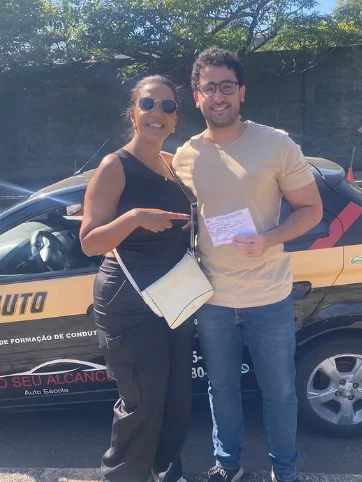
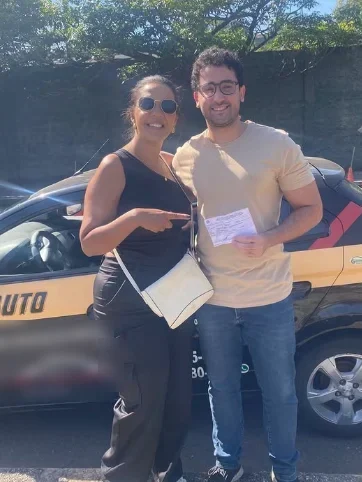
Valéria (nova): depoimentos, DETRAN, horários e pagamento
Adiciona 5 depoimentos reais, +3 mil alunos aprovados, credencial
do DETRAN, HB20 próprio, aula de 50 min, 7h às 20h e formas de
pagamento. Borra nomes e telefones de autoescolas nas fotos.

Claude-Session: https://claude.ai/code/session_01DHs11vQTJvKq3AUs1mspLR

Changed region(s): [[0.0, 0.6535, 0.3343, 0.8402]]

diff --git a/public/valeria/nova/index.html b/public/valeria/nova/index.html
@@ -119,6 +119,20 @@ footer a{font-weight:800;text-decoration:none}
 .sticky{position:fixed;z-index:10;left:0;right:0;bottom:0;padding:10px 16px calc(12px + env(safe-area-inset-bottom,0px));background:rgba(255,248,243,.94);backdrop-filter:blur(8px);border-top:1px solid var(--line)}
 .sticky .btn{width:100%}
 
+
+/* depoimentos */
+.quotes{display:grid;grid-auto-flow:column;grid-auto-columns:min(80vw,320px);gap:14px;overflow-x:auto;scroll-snap-type:x mandatory;padding-bottom:10px}
+.quote{margin:0;display:flex;flex-direction:column;background:var(--surface);border-radius:var(--r);box-shadow:var(--shadow);overflow:hidden;scroll-snap-align:start}
+.quote img{width:100%;aspect-ratio:4/3;object-fit:cover;object-position:50% 30%}
+.quote blockquote{margin:0;padding:18px 20px 8px;font-size:16px;font-weight:600;line-height:1.5}
+.quote figcaption{padding:0 20px 18px;font-size:14px;font-weight:700;color:var(--pink)}
+@media (min-width:900px){
+  .quotes{grid-auto-flow:initial;grid-template-columns:repeat(3,minmax(0,1fr));overflow:visible}
+  .quote.big{grid-row:span 2}
+  .quote.big img{aspect-ratio:4/3.4}
+  .quote.big blockquote{font-size:19px;padding:24px 26px 10px}
+  .quote.big figcaption{padding:0 26px 24px}
+}
 @media (min-width:760px){
   .students{grid-auto-flow:initial;grid-template-columns:repeat(5,minmax(0,1fr));overflow:visible}
   .steps{grid-template-columns:repeat(3,minmax(0,1fr))}
@@ -164,7 +178,8 @@ footer a{font-weight:800;text-decoration:none}
       </div>
       <ul class="trust">
         <li><svg viewBox="0 0 24 24" fill="none" stroke="currentColor" stroke-width="2.4" stroke-linecap="round" stroke-linejoin="round" aria-hidden="true"><path d="M5 12.5l4.5 4.5L19 7"/></svg>30 anos de experiência</li>
-        <li><svg viewBox="0 0 24 24" fill="none" stroke="currentColor" stroke-width="2.4" stroke-linecap="round" stroke-linejoin="round" aria-hidden="true"><path d="M5 12.5l4.5 4.5L19 7"/></svg>Aula individual</li>
+        <li><svg viewBox="0 0 24 24" fill="none" stroke="currentColor" stroke-width="2.4" stroke-linecap="round" stroke-linejoin="round" aria-hidden="true"><path d="M5 12.5l4.5 4.5L19 7"/></svg>+3 mil alunos aprovados</li>
+        <li><svg viewBox="0 0 24 24" fill="none" stroke="currentColor" stroke-width="2.4" stroke-linecap="round" stroke-linejoin="round" aria-hidden="true"><path d="M5 12.5l4.5 4.5L19 7"/></svg>Credenciada pelo DETRAN</li>
         <li><svg viewBox="0 0 24 24" fill="none" stroke="currentColor" stroke-width="2.4" stroke-linecap="round" stroke-linejoin="round" aria-hidden="true"><path d="M5 12.5l4.5 4.5L19 7"/></svg>Busco você em casa</li>
       </ul>
     </div>
@@ -174,19 +189,19 @@ footer a{font-weight:800;text-decoration:none}
     </div>
   </section>
 
-  <!-- ALUNOS -->
-  <section class="sec" style="padding-top:0" aria-labelledby="h-alunos">
+  <!-- DEPOIMENTOS -->
+  <section class="sec" style="padding-top:0" aria-labelledby="h-dep">
     <div class="wrap">
       <div class="head">
-        <span class="kicker">Alunos da Valéria</span>
-        <h2 id="h-alunos" class="h2">Gente que chegou com medo e saiu dirigindo.</h2>
+        <span class="kicker">Depoimentos</span>
+        <h2 id="h-dep" class="h2">Quem aprendeu com a Val, recomenda.</h2>
       </div>
-      <div class="students">
-        <img src="/valeria/img/aluno-4.webp" alt="Valéria com um aluno ao lado do carro de aula" loading="lazy" width="362" height="482">
-        <img src="/valeria/img/aluno-5.webp" alt="Valéria abraçada a um aluno ao lado do carro de aula" loading="lazy" width="379" height="514">
-        <img src="/valeria/img/aluno-6.webp" alt="Valéria com uma aluna segurando o documento do exame" loading="lazy" width="399" height="509">
-        <img src="/valeria/img/aluno-7.webp" alt="Valéria com um aluno ao lado do carro" loading="lazy" width="461" height="566">
-        <img src="/valeria/img/valeria-alunos.jpg" alt="Valéria com um aluno e uma aluna ao lado do carro de aula" loading="lazy" width="1259" height="1500">
+      <div class="quotes">
+        <figure class="quote big"><img src="/valeria/img/depo-2.webp" alt="Valéria com uma aluna" loading="lazy" width="426" height="278"><blockquote>“A Val é uma excelente professora e profissional. Ao longo das aulas me passou cada vez mais segurança e sempre foi firme na medida certa. A Val me acompanhou durante toda a jornada, até a aprovação! Ela sempre foi extremamente paciente, me ajudando a superar bloqueios com o trânsito!”</blockquote><figcaption>Aluna da Valéria</figcaption></figure>
+        <figure class="quote"><img src="/valeria/img/depo-1.webp" alt="Valéria com uma aluna" loading="lazy" width="320" height="187"><blockquote>“Amei ter a Val como instrutora! Ela é muito simpática e me ensinou tudo e mais um pouco.”</blockquote><figcaption>Aluna da Valéria</figcaption></figure>
+        <figure class="quote"><img src="/valeria/img/depo-3.webp" alt="Valéria com uma aluna" loading="lazy" width="450" height="295"><blockquote>“Eu só tinha uma pauta vencendo e um sonho. Mentira, eu tinha a melhor instrutora de todas também! Obriiii Val!”</blockquote><figcaption>Aluna da Valéria</figcaption></figure>
+        <figure class="quote"><img src="/valeria/img/depo-4.webp" alt="Valéria com um aluno" loading="lazy" width="356" height="326"><blockquote>“Muito obrigado pelos ensinamentos, Val!”</blockquote><figcaption>Aluno da Valéria</figcaption></figure>
+        <figure class="quote"><img src="/valeria/img/depo-5.webp" alt="Valéria com uma aluna" loading="lazy" width="444" height="422"><blockquote>“E hoje se encerra mais um ciclo com a melhor instrutora.”</blockquote><figcaption>Aluna da Valéria</figcaption></figure>
       </div>
     </div>
   </section>
@@ -214,8 +229,8 @@ footer a{font-weight:800;text-decoration:none}
       </div>
       <ol class="steps">
         <li class="step"><div><h3>Me chama no WhatsApp</h3><p>Me conte sua experiência e o que você quer treinar.</p></div></li>
-        <li class="step"><div><h3>Eu busco você</h3><p>Em casa ou no trabalho, no horário combinado, em Betim, BH ou Contagem.</p></div></li>
-        <li class="step"><div><h3>Aula no seu ritmo</h3><p>Só você e eu no carro, focando no que você precisa.</p></div></li>
+        <li class="step"><div><h3>Eu busco você</h3><p>No meu HB20 manual, em casa ou no trabalho, das 7h às 20h, em Betim, BH ou Contagem.</p></div></li>
+        <li class="step"><div><h3>Aula no seu ritmo</h3><p>50 minutos só você e eu no carro, focando no que você precisa.</p></div></li>
       </ol>
     </div>
   </section>
@@ -226,6 +241,7 @@ footer a{font-weight:800;text-decoration:none}
       <div class="head">
         <span class="kicker">Preços</span>
         <h2 id="h-precos" class="h2">Comece com uma aula. Continue se gostar.</h2>
+        <p class="lead">Cada aula tem 50 minutos. Pagamento no Pix, cartão ou dinheiro.</p>
       </div>
       <div class="prices">
         <div class="row row-hl"><h3>Aula experimental <span class="badge">50% OFF</span></h3><p>Sua primeira aula pela metade do valor.</p><div class="val">R$40</div></div>
@@ -249,7 +265,10 @@ footer a{font-weight:800;text-decoration:none}
         <h2 id="h-faq" class="h2">Perguntas frequentes</h2>
       </div>
       <div class="faq">
-        <details><summary>A aula é em carro manual?</summary><p>Sim. Todas as aulas são em carro manual, para você treinar embreagem, marchas e arrancada de verdade.</p></details>
+        <details><summary>Qual é o carro das aulas?</summary><p>Um HB20 manual, carro próprio da Valéria. Você treina embreagem, marchas e arrancada de verdade.</p></details>
+        <details><summary>Você é credenciada?</summary><p>Sim. Sou instrutora credenciada pelo DETRAN, com 30 anos de experiência.</p></details>
+        <details><summary>Quanto tempo dura a aula e quais os horários?</summary><p>Cada aula tem 50 minutos. Atendo das 7h às 20h, no horário que combinarmos.</p></details>
+        <details><summary>Quais as formas de pagamento?</summary><p>Pix, cartão ou dinheiro.</p></details>
         <details><summary>Você me busca em casa?</summary><p>Sim. Busco você em casa ou no trabalho em Betim, Belo Horizonte e Contagem. Me mande seu bairro no WhatsApp para confirmar.</p></details>
         <details><summary>Já tenho carteira, mas parei de dirigir. Serve para mim?</summary><p>Serve. As aulas são montadas em cima da sua dificuldade, seja voltar a dirigir, perder o medo do trânsito ou treinar baliza.</p></details>
         <details><summary>Posso fazer só uma aula antes de fechar um pacote?</summary><p>Pode. A primeira aula sai por R$40, metade do valor normal.</p></details>
